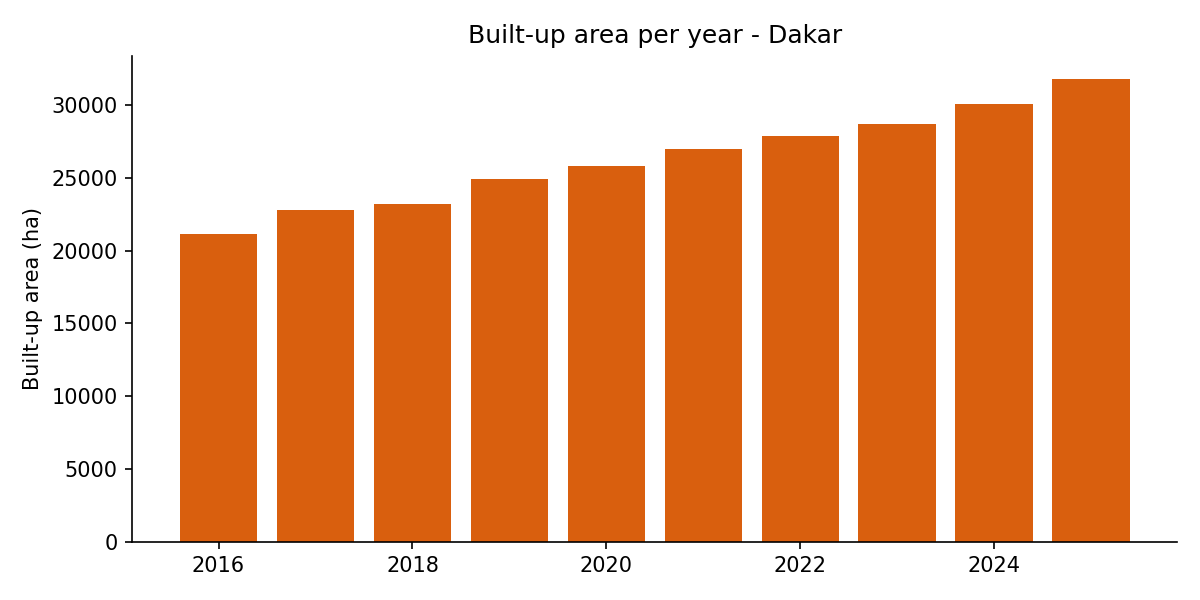
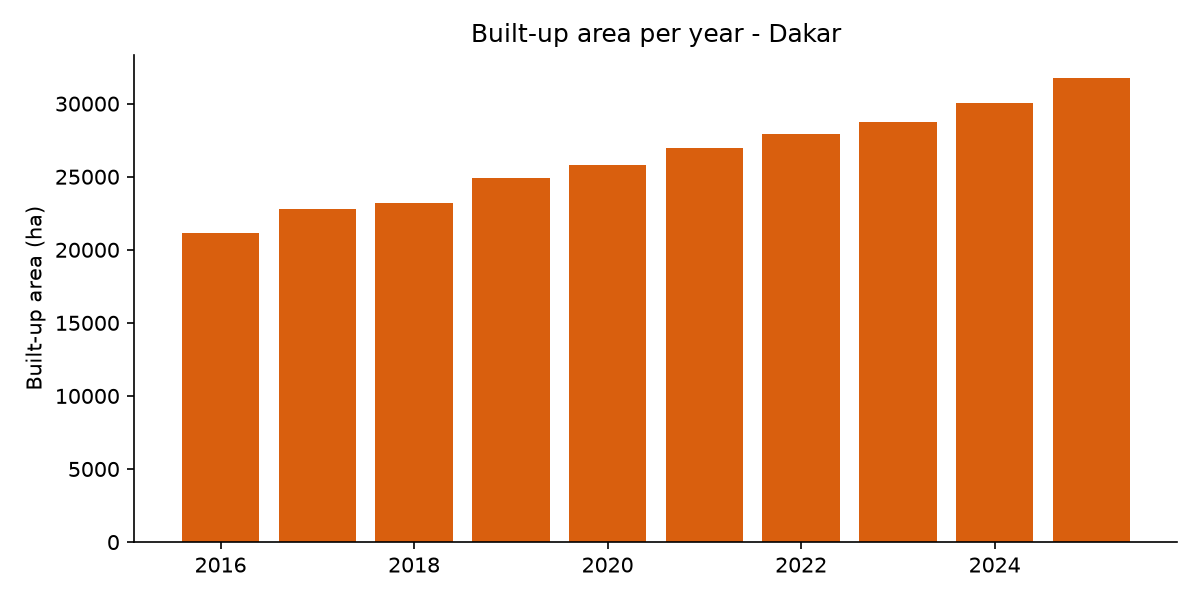
Passage à Python 3.12 (uv) et versions figées
- Nouveau venv .venv en Python 3.12 créé avec uv ; requirements-lock.txt fige
  les versions testées (pandas 3.0, geedim 2.0, numpy 2.5…)
- Vérification : 53 tests, étapes 3, 4 et 6 relancées : tables d'indicateurs et
  de contrôle croisé identiques ; téléchargement Earth Engine identique au pixel
- Images régénérées (rendu matplotlib 3.11) ; un arrondi à la limite dans le
  CSV de Thiès (6 054,05 ha : 6 054,1 -> 6 054,0)
- README et CLAUDE.md : installation avec uv, venv .venv

diff --git a/README.md b/README.md
@@ -142,8 +142,10 @@ docs/                old Dakar web map (GitHub Pages), to be replaced by the sit
 ## How to run
 
 ```bash
-python -m venv myvenv && source myvenv/bin/activate
-pip install -r requirements.txt
+# Python 3.12 with uv (https://docs.astral.sh/uv/); exact tested versions in requirements-lock.txt
+uv venv .venv --python 3.12 && source .venv/bin/activate
+uv pip install -r requirements-lock.txt
+# or, without uv: python3.12 -m venv .venv && pip install -r requirements-lock.txt
 # set GEE_PROJECT in config/settings.py (a Google Cloud project registered for Earth Engine)
 
 python -m pipeline.s0_zones           # only to change the zones (they are frozen in zones/)
@@ -166,8 +168,9 @@ Practical notes:
 - Step 6 downloads the reference maps once per city through Earth Engine (about 5 minutes for
   Touba, longer for Dakar) into `data/cities/<city>/`. Step 5 is reserved for the national
   validation (J4).
-- The virtual environment uses Python 3.10, no longer supported by Google's libraries since
-  October 2026 (it still works, with a warning): move to Python 3.11+ when convenient.
+- `requirements.txt` lists the libraries; `requirements-lock.txt` pins the exact versions
+  tested with Python 3.12 (the outputs in `outputs/` were checked identical with them). geemap
+  uses a geedim function marked as deprecated: keep the pinned versions until it is updated.
 
 ## First case study: Dakar region (legacy)
 

diff --git a/CLAUDE.md b/CLAUDE.md
@@ -39,7 +39,9 @@ theme urban expansion 2016–2026, Sentinel-2 + Google Earth Engine + one nation
 
 ## Commands
 
-Run from the project root with the venv (`source myvenv/bin/activate`, Python 3.10):
+Run from the project root with the venv (`source .venv/bin/activate`, Python 3.12, created
+with `uv`; install packages with `uv pip install --python .venv ...` and update
+`requirements-lock.txt` with `uv pip freeze --python .venv`):
 
 ```bash
 python -m pipeline.s0_zones        # zones (cached downloads in data/raw/)
@@ -60,5 +62,4 @@ servers are often busy (step 0 tries three mirrors); Nominatim works for single 
 Downloads are cached in `data/` (WorldPop in `data/raw/worldpop/`, census in
 `data/raw/rgph5/`, reference roofs in `data/cities/<city>/`). The ANSD server sends an
 incomplete certificate: census downloads run with `verify=False`, and WebFetch cannot read
-ansd.sn (use `curl -k`). Python 3.10 is no longer supported by Google's libraries since
-October 2026: move to 3.11+ when convenient.
+ansd.sn (use `curl -k`). The old Python 3.10 venv `myvenv/` is kept until the user deletes it.
